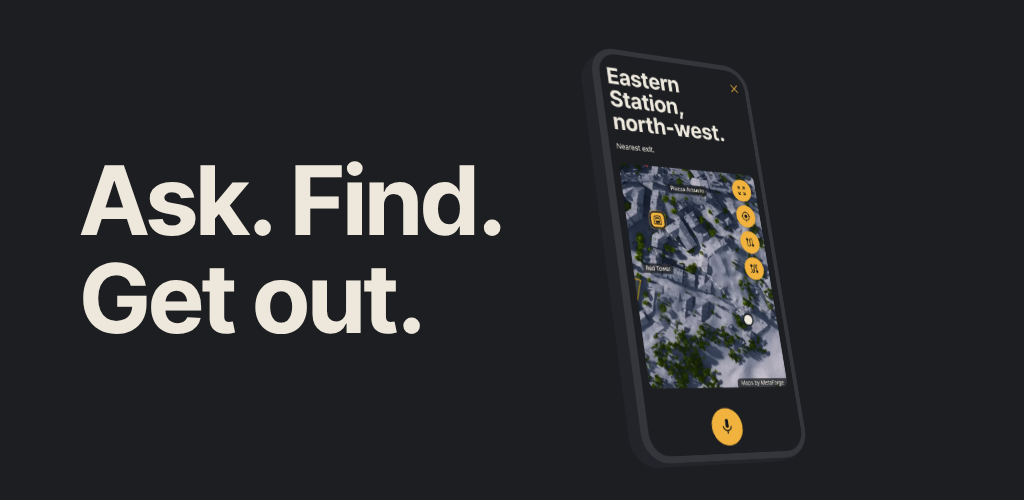
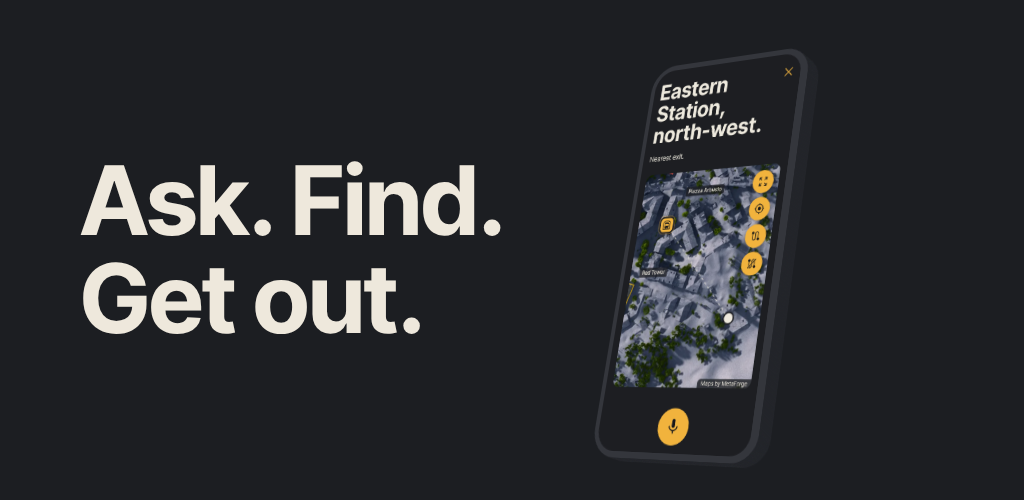
Play feature graphic: phone turned inwards, towards the headline (same angle as Hlid's)
Claude-Session: https://claude.ai/code/session_01P1qx1PfAAUM1n3ZEA26V2Y

diff --git a/android-release/play-listing/source/shot.html b/android-release/play-listing/source/shot.html
@@ -17,7 +17,7 @@ html,body{margin:0;background:#1C1E22;color:#EEE8DC;font-family:IT}
 .fg{position:relative;width:1024px;height:500px;overflow:hidden;background:#1C1E22;display:flex;align-items:center}
 .fg h2{margin:0 0 0 80px;font:700 96px/1.02 IT;letter-spacing:-.01em;white-space:pre-line}
 .fg .stage{position:absolute;left:700px;top:50%;perspective:1400px;transform:translate(-50%,-50%)}
-.p3{--pw:196px;--d:23px;position:relative;width:var(--pw);aspect-ratio:390/844;border-radius:calc(var(--pw) * .1467);transform-style:preserve-3d;transform:rotateX(22deg) rotateY(34deg) rotateZ(-10deg)}
+.p3{--pw:196px;--d:23px;position:relative;width:var(--pw);aspect-ratio:390/844;border-radius:calc(var(--pw) * .1467);transform-style:preserve-3d;transform:rotateX(22deg) rotateY(-34deg) rotateZ(10deg)}
 .p3 i{position:absolute;inset:0;border-radius:inherit;background:#222429;transform:translateZ(calc(var(--k) * var(--d) / -12))}
 .p3 i.rim{background:#34363C}
 .p3 .scr{position:absolute;inset:calc(var(--pw) * .0333);border-radius:calc(var(--pw) * .1133);overflow:hidden;transform:translateZ(.5px)}
